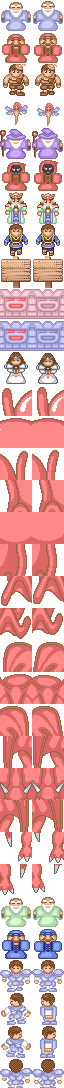
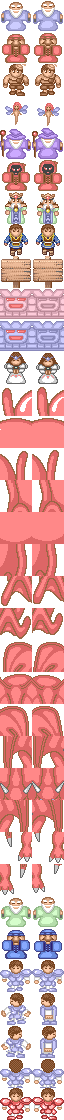
feat: 高等级勇士

diff --git a/project/plugins.js b/project/plugins.js
@@ -2189,7 +2189,11 @@ var plugins_bb40132b_638b_4a9f_b028_d3fe47acc8d1 = {
                     // 如果还没有画过 进行绘制
                     if (!hero.drown && !main.replayChecking) {
                         hero.drown = true;
-                        core.drawBlock(core.getBlockById('N342'), core.status.globalAnimateStatus, ctx);
+                        var icon = core.getBlockById('N342');
+                        if (hero.level === 2) {
+                            core.getBlockById('N325');
+                        }
+                        core.drawBlock(icon, core.status.globalAnimateStatus, ctx);
                         // 血条
                         core.fillRect(ctx, 4, 0, 24, 2, '#333333');
                         core.fillRect(ctx, 4, 0, 24, 2, '#00ff00');
@@ -2230,7 +2234,11 @@ var plugins_bb40132b_638b_4a9f_b028_d3fe47acc8d1 = {
                     // Global Hero Animate
                     var heroes = core.status.enemys.hero || {};
                     Object.keys(heroes).forEach(function(one) {
-                        core.drawBlock(core.getBlockById('N342'), core.status.globalAnimateStatus, one);
+                        var icon = core.getBlockById('N342');
+                        if (one.level === 2) {
+                            icon = core.getBlockById('N325');
+                        }
+                        core.drawBlock(icon, core.status.globalAnimateStatus, one);
                     });
 
                     // Global Autotile Animate
@@ -3845,7 +3853,8 @@ var plugins_bb40132b_638b_4a9f_b028_d3fe47acc8d1 = {
                 to: index - 1,
                 x: loc[0],
                 y: loc[1],
-                special: []
+                special: [],
+                level: tower.level >= 25 ? 2 : 1,
             };
             if (!main.replayChecking) {
                 var weaponCanvas = core.batchDict["tower-weapon_" + pos].canvas;

diff --git a/project/maps.js b/project/maps.js
@@ -222,6 +222,7 @@ var maps_90f36752_8815_4be8_b32b_d7fad1d0542e =
 	"322": {"cls":"npc48","id":"tallGreenDoor","trigger":"openDoor","name":"高绿门","animate":1,"doorInfo":{"time":160,"openSound":"door.mp3","closeSound":"door.mp3","keys":{"greenKey":1}}},
 	"323": {"cls":"npc48","id":"tallSpecialDoor","trigger":"openDoor","name":"高机关门","animate":1,"doorInfo":{"time":160,"openSound":"door.mp3","closeSound":"door.mp3","keys":{"specialKey":1}}},
 	"324": {"cls":"npc48","id":"tallSteelDoor","trigger":"openDoor","name":"高铁门","animate":1,"doorInfo":{"time":160,"openSound":"door.mp3","closeSound":"door.mp3","keys":{"steelKey":1}}},
+	"325": {"cls":"npcs","id":"N325"},
 	"327": {"cls":"terrains","id":"T327","cannotOut":["up","down","left","right"],"cannotIn":["up","down","left","right"]},
 	"328": {"cls":"terrains","id":"T328"},
 	"329": {"cls":"terrains","id":"T329"},

diff --git a/project/icons.js b/project/icons.js
@@ -145,7 +145,8 @@ var icons_4665ee12_3a1f_44a4_bea3_0fccba634dc1 =
 		"N342": 30,
 		"N343": 31,
 		"N344": 32,
-		"N345": 33
+		"N345": 33,
+		"N325": 34
 	},
 	"npc48": {
 		"npc0": 0,
